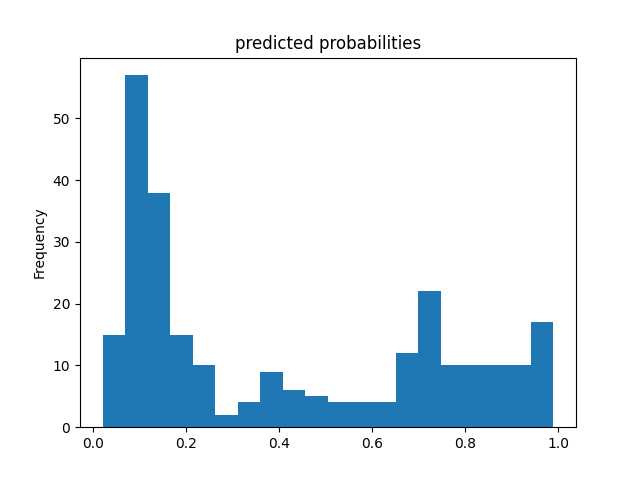
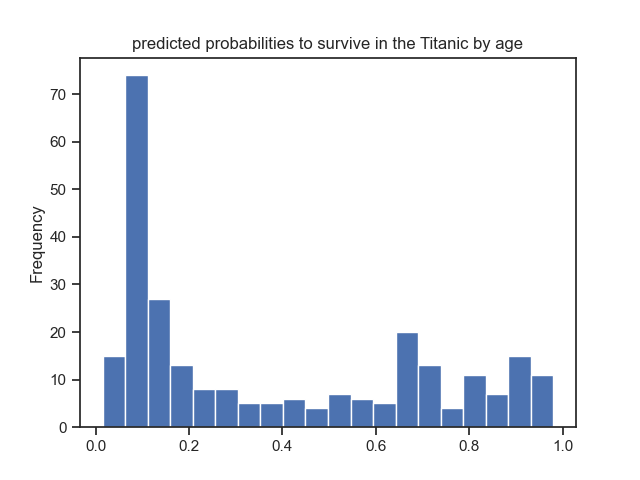
fix: working returning images

diff --git a/linearRegressionService.py b/linearRegressionService.py
@@ -54,6 +54,8 @@ def calculateLinearRegression():
     print(f'accuracy of the result {result["accuracy"]}')
     pred_dicts = list(linear_est.predict(eval_input_fn))
     probs = pd.Series([pred['probabilities'][1] for pred in pred_dicts])
-    probs.plot(kind='hist', bins=20, title='predicted probabilities')
+    colors = ['b', 'b', 'b', 'b', 'b', 'b', 'b', 'b', 'b', 'b', 'y', 'b', 'b', 'b', 'b', 'b', 'b', 'b', 'b', 'b']
+    probs.plot(kind='hist', bins=20, title='predicted probabilities to survive in the Titanic by age', colors=colors)
+    # seaborn.barplot(probs.index, probs.values)
     plt.savefig(basedir + '/static/images/new_plot.png')
     plt.show()

diff --git a/README.md b/README.md
@@ -1,5 +1,14 @@
+###Description
+
+Hello world project with ML using tensorflow, it calculates the probability of surviving in the 
+Titanic by age using linear regression as estimator
+
 ###Init Project
 
 ```sh
 pkillall -9 Python;python ./app/__init__.py
 ```
+
+###Useful Links
+
+    https://pandas.pydata.org/docs/reference/api/pandas.DataFrame.plot.html#pandas.DataFrame.plot
